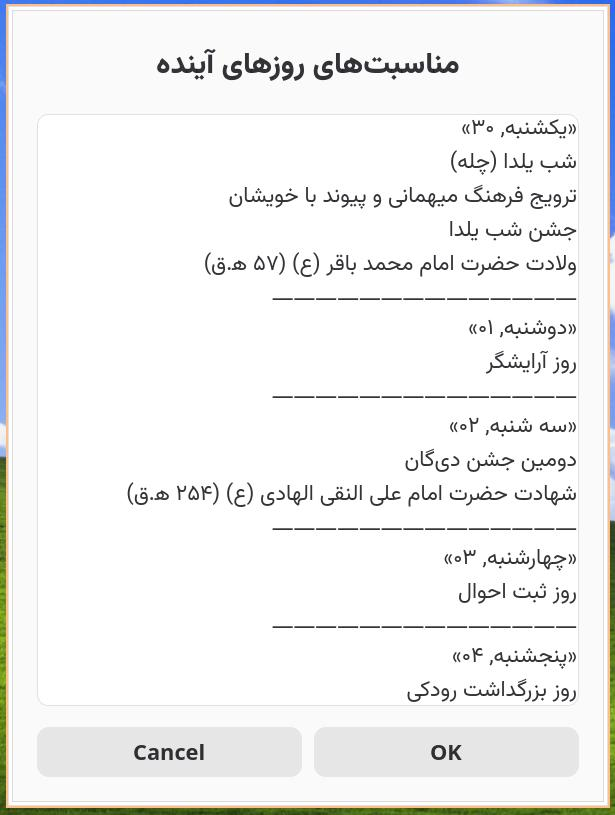
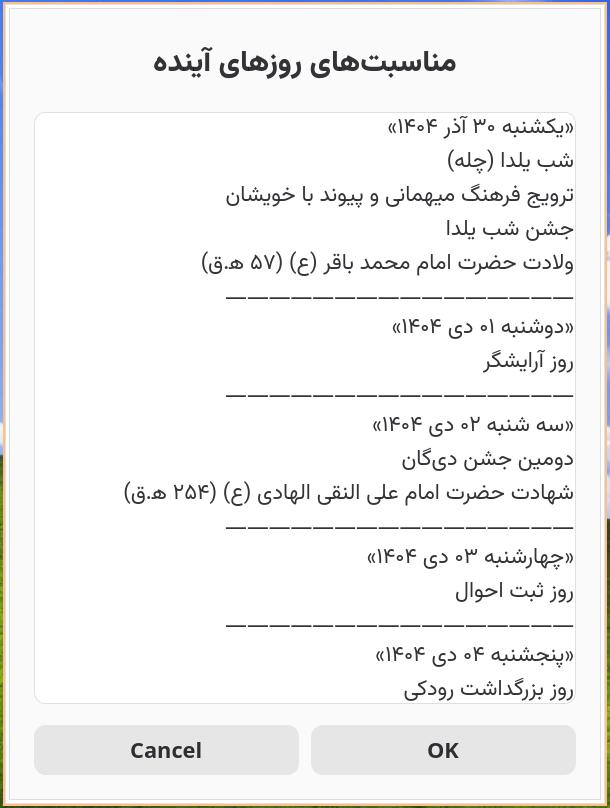
Reduce number of calls to jq
- Wrote get_events and deprecated get_event. Now the iteration over calendars is
handled inside jq
- User can select the desired calendars or country with a
variable
- Changed the title of the printed text

diff --git a/README.md b/README.md
@@ -54,7 +54,7 @@ notify-send -i "calendar" \
 ```
 
 <p align="center">
-  <img width="400"src="docs/imroo-dunst.jpg">
+  <img width="350"src="docs/imroo-dunst.jpg">
 </p>
 
 - The output string would be in UTF-8 Persian characters. Use terminal emulators
